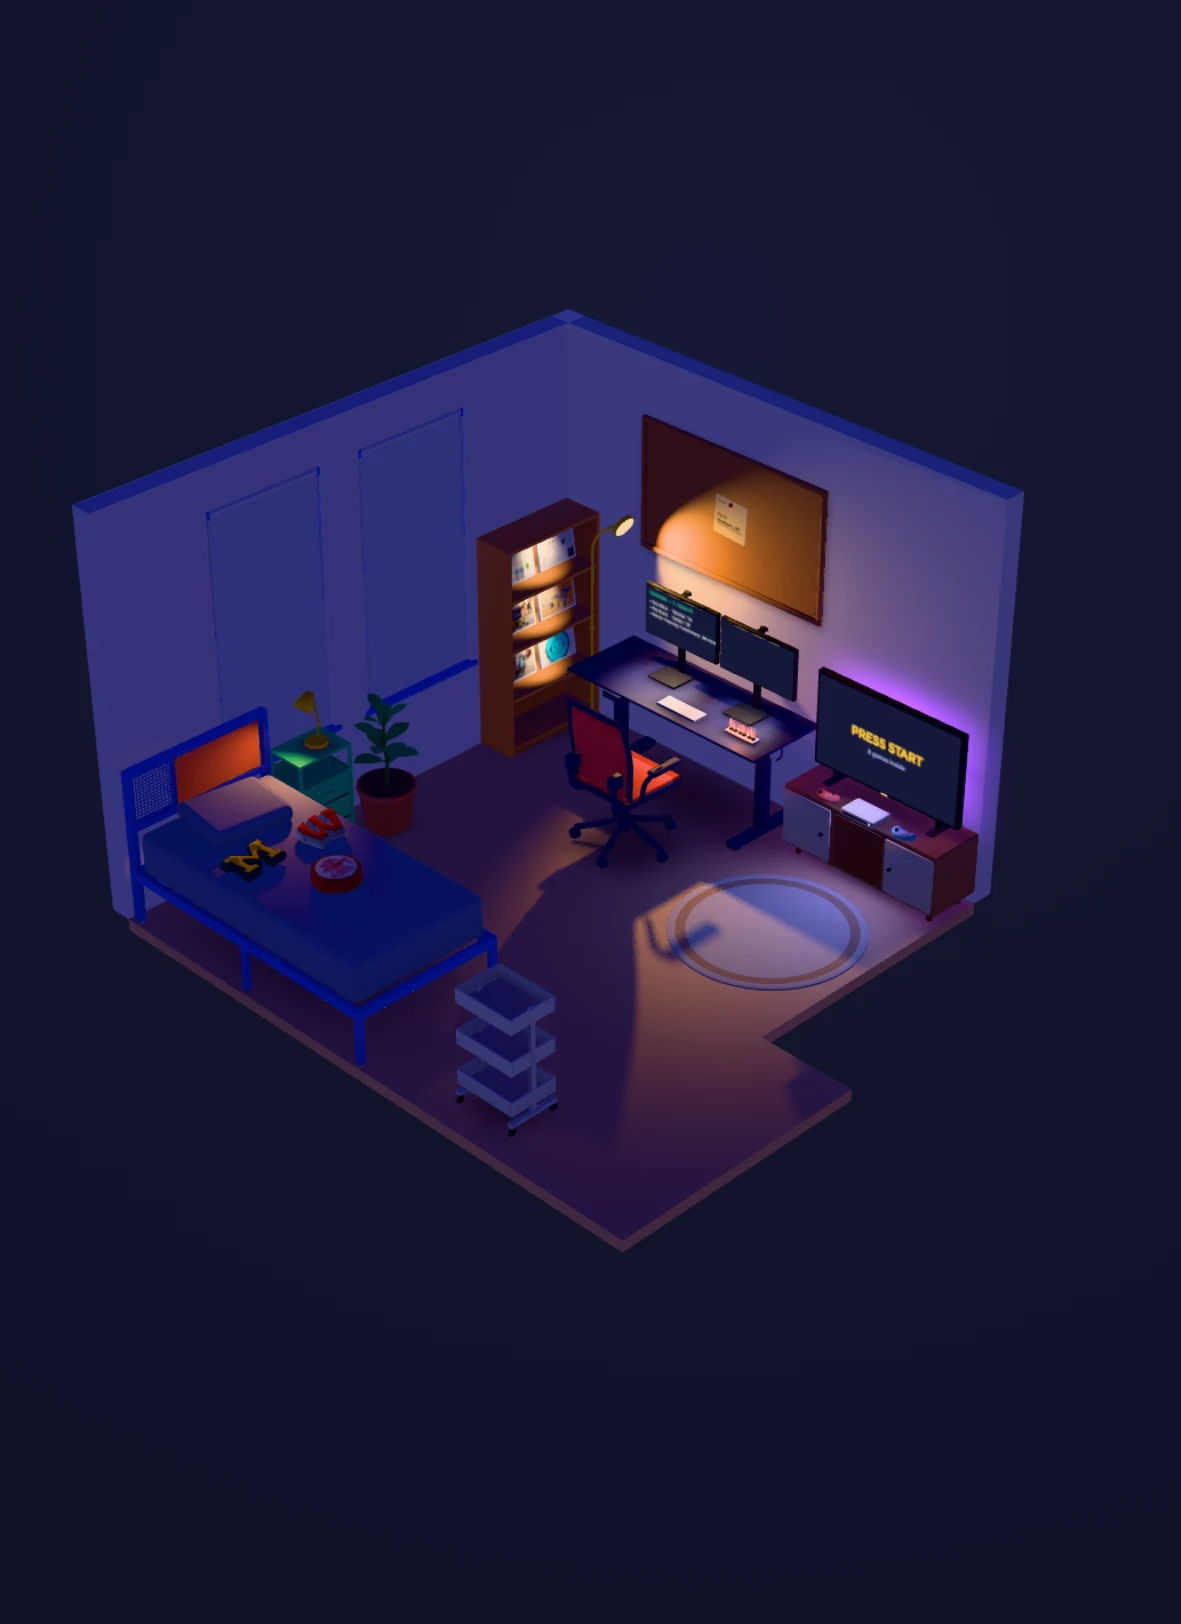
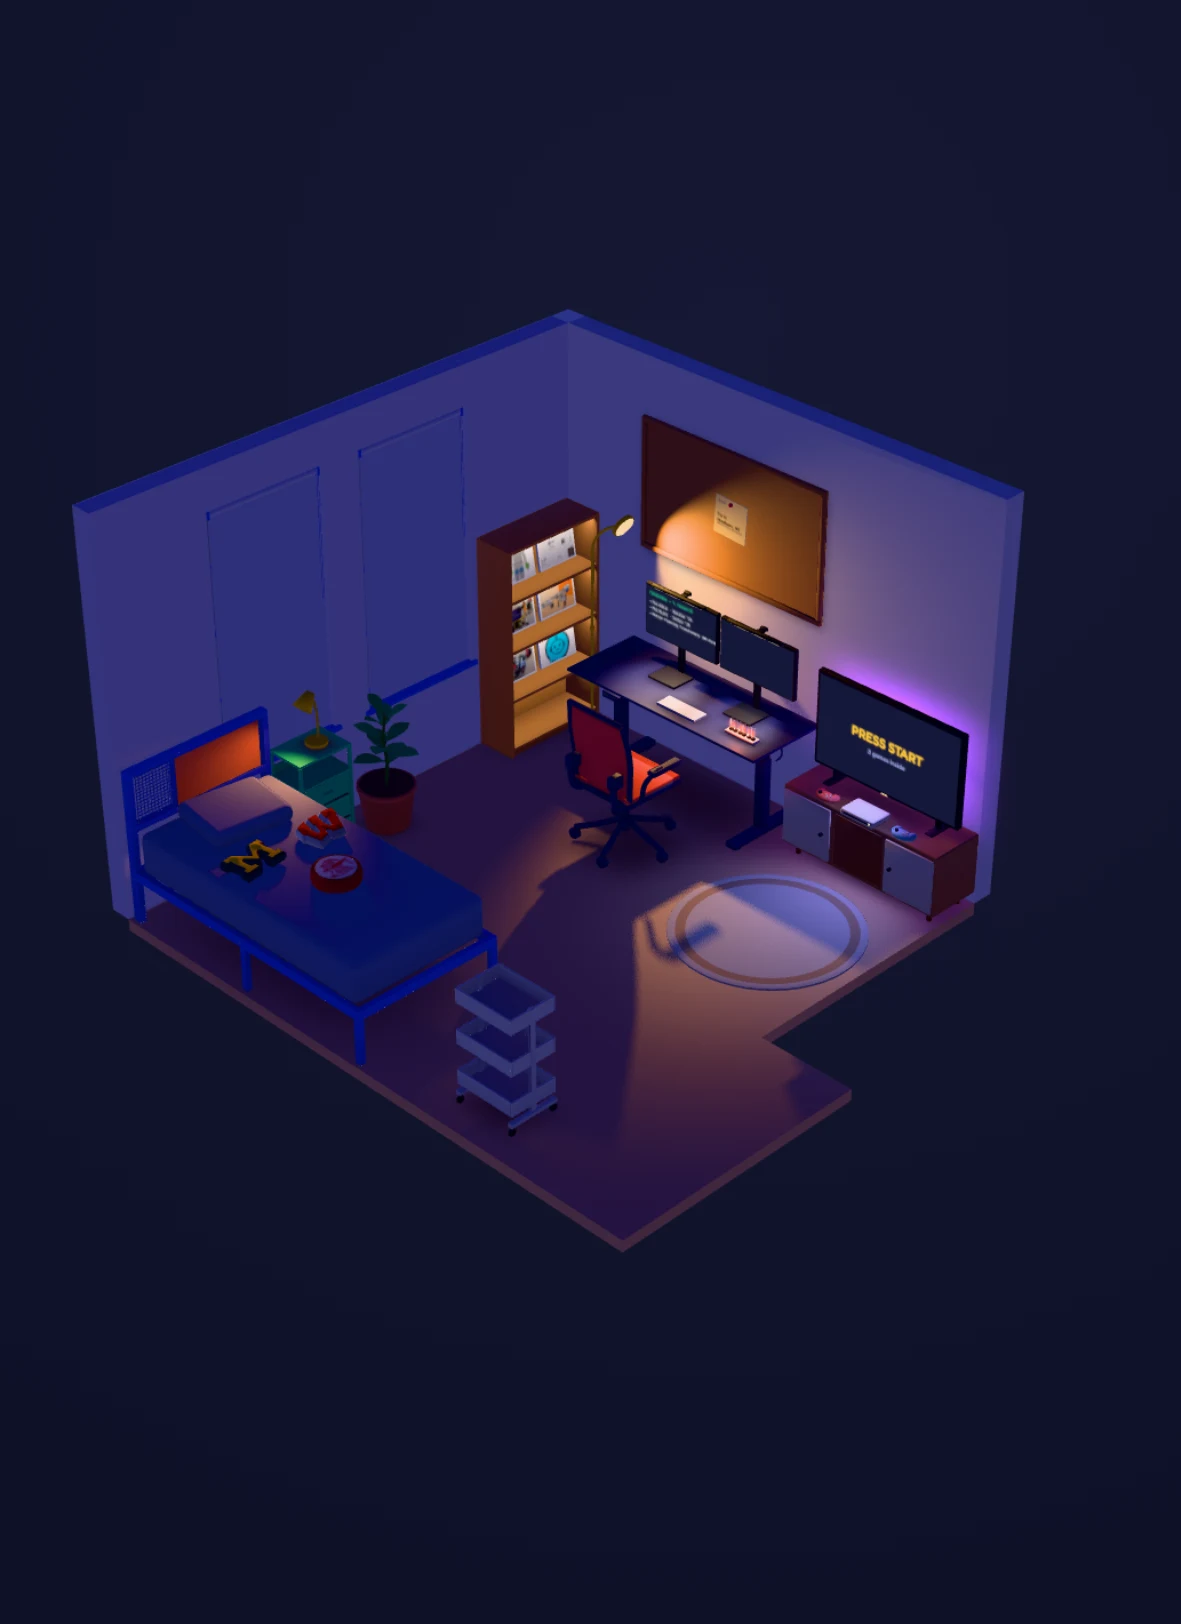
Shelf lights as line lights on every tier, instead of spots

Changed region(s): [[0.4268, 0.3079, 0.5182, 0.4618]]

diff --git a/src/scripts/room.ts b/src/scripts/room.ts
@@ -66,7 +66,7 @@ const ASSETS = '/room/assets/';
 const INK = '#14183a';
 const LEVELS = {
   light: { hemi: 0.65, env: 0.6, sun: 2.6, screen: 0, tv: 0, shelf: 0, emis: 0.12, night: 0 },
-  dark: { hemi: 0.5, env: 1, sun: 0.4, screen: 3.2, tv: 1.8, shelf: 1.4, emis: 1.2, night: 1 },
+  dark: { hemi: 0.5, env: 1, sun: 0.4, screen: 3.2, tv: 1.8, shelf: 1.8, emis: 1.2, night: 1 },
 };
 /** Lights you can click on and off in the full-screen room, and each one's level when on. They all
  * come on with the dark theme and go off with the light one; a click flips one until the next switch. */
@@ -250,6 +250,8 @@ export async function mountRoom(frame: HTMLElement, opts: RoomOptions) {
 
   // --- room shell: floor slab and walls with window/door openings, built from the measured outline
   const T = SHELL.thickness, H = SHELL.height;
+  // The shelf's display lights also reach the wall behind it (see stripLit).
+  const wallMats: MeshStandardMaterial[] = [];
   const floorMat = new MeshStandardMaterial({ color: new Color(SHELL.floor), roughness: 0.6 });
   const floor = new Mesh(
     new ExtrudeGeometry(new Shape(SHELL.outline.map(([x, y]) => new Vector2(x, y))), { depth: 0.08, bevelEnabled: false }),
@@ -293,6 +295,7 @@ export async function mountRoom(frame: HTMLElement, opts: RoomOptions) {
     }
     if (u < u1) pieces.push([u, u1, 0, H]);
     const mat = new MeshStandardMaterial({ color: new Color(w.side === 'W' ? SHELL.wallW : SHELL.wall), roughness: 0.9 });
+    wallMats.push(mat);
     const objs = pieces.map(([a, b, z0, z1]) => {
       const len = b - a, mid = (a + b) / 2, off = line - (alongX ? n.y : n.x) * (T / 2);
       const m = new Mesh(alongX ? new BoxGeometry(len, z1 - z0, T) : new BoxGeometry(T, z1 - z0, len), mat);
@@ -1088,20 +1091,99 @@ export async function mountRoom(frame: HTMLElement, opts: RoomOptions) {
       });
     return { id: el.dataset.item, pop: poppable(f, { p: new Vector3(0, 0.02, 0.07), r: 0.2, s: 0.1 }) };
   });
-  // Display lights: an LED strip under the front edge of the board above each tier with frames,
-  // shining down and back onto them. Like the monitor light bars they follow the theme (on at night).
+  // Display lights: an LED strip under the front edge of every board, lighting the tier below it.
+  // A strip is a line of light, so instead of a spot (a round pool) each one is a line light added in
+  // the shader of the shelf's own materials: even along its length, fading with distance, shining
+  // down and back, and only inside its own tier (the boards would block it). Three's RectAreaLight
+  // would do this too, but its lookup tables cost ~110 KB. Like the monitor light bars, the strips
+  // follow the theme (on at night).
   const shelfAsset = manifest.assets[PLACEMENTS.find((p) => p.id === SCREENS.shelf)!.asset];
   const clear = shelfAsset.tier_clear ?? 0.33, depth = shelfAsset.size[1];
+  const allTiers = (shelfAsset.tiers ?? []).slice().sort((a, b) => a - b);
   const shelfGlow = new MeshStandardMaterial({ color: new Color('#fff4e0'), emissive: new Color('#ffd9a0'), emissiveIntensity: 0 });
-  const shelfLs = tiers.map((tier) => {
-    const strip = new Mesh(new BoxGeometry(shelfW - 0.04, 0.006, 0.012), shelfGlow);
-    strip.position.set(0, tier + clear - 0.004, depth / 2 - 0.035);
+  const stripLight = { value: 0 };
+  const stripA: Vector3[] = [], stripB: Vector3[] = [], stripY: Vector2[] = [];
+  shelf.updateWorldMatrix(true, true);
+  for (const tier of allTiers) {
+    const y = tier + clear - 0.004, z = depth / 2 - 0.035, half = (shelfW - 0.04) / 2;
+    const strip = new Mesh(new BoxGeometry(half * 2, 0.006, 0.012), shelfGlow);
+    strip.position.set(0, y, z);
     strip.raycast = () => {};
-    const l = new SpotLight(0xffe2b8, 0, 0.6, 0.85, 1, 1.5);
-    l.position.copy(strip.position);
-    l.target.position.set(0, tier, -depth / 2);
-    shelf.add(strip, l, l.target);
-    return l;
+    shelf.add(strip);
+    stripA.push(shelf.localToWorld(new Vector3(-half, y, z)));
+    stripB.push(shelf.localToWorld(new Vector3(half, y, z)));
+    stripY.push(new Vector2(shelf.localToWorld(new Vector3(0, tier, 0)).y - 0.01, shelf.localToWorld(new Vector3(0, y, 0)).y + 0.01));
+  }
+  // The direction the strips shine: down and towards the back panel.
+  const stripDir = new Vector3(0, -1, -0.8).normalize().transformDirection(shelf.matrixWorld);
+  const N_STRIPS = stripA.length;
+  // How far past each end of a strip (as a fraction of its length) the side panels' inner faces are.
+  const stripEnd = ((shelfAsset.size[0] / 2 - 0.02 - (shelfW - 0.04) / 2) / (shelfW - 0.04)) + 0.005;
+  const stripLit = (m: MeshStandardMaterial) => {
+    const prev = m.onBeforeCompile, prevKey = m.customProgramCacheKey();
+    m.onBeforeCompile = (sh, r) => {
+      prev.call(m, sh, r);
+      Object.assign(sh.uniforms, {
+        uStripLight: stripLight,
+        uStripA: { value: stripA },
+        uStripB: { value: stripB },
+        uStripY: { value: stripY },
+        uStripDir: { value: stripDir },
+        uStripEnd: { value: stripEnd },
+      });
+      sh.vertexShader = 'varying vec3 vStripW;\n' + sh.vertexShader.replace('#include <begin_vertex>', '#include <begin_vertex>\n  vStripW = (modelMatrix * vec4(transformed, 1.0)).xyz;');
+      sh.fragmentShader =
+        `varying vec3 vStripW;
+uniform float uStripLight;
+uniform vec3 uStripA[${N_STRIPS}];
+uniform vec3 uStripB[${N_STRIPS}];
+uniform vec2 uStripY[${N_STRIPS}];
+uniform vec3 uStripDir;
+uniform float uStripEnd;
+` +
+        sh.fragmentShader.replace(
+          '#include <lights_fragment_end>',
+          `#include <lights_fragment_end>
+  if (uStripLight > 0.0) {
+    vec3 nW = inverseTransformDirection(normal, viewMatrix);
+    float sum = 0.0;
+    for (int i = 0; i < ${N_STRIPS}; i++) {
+      if (vStripW.y < uStripY[i].x || vStripW.y > uStripY[i].y) continue;
+      vec3 ab = uStripB[i] - uStripA[i];
+      // Along the strip: nothing past the side panels' inner faces, so the walls beside the shelf stay dark.
+      float t = dot(vStripW - uStripA[i], ab) / dot(ab, ab);
+      if (t < -uStripEnd || t > 1.0 + uStripEnd) continue;
+      vec3 q = uStripA[i] + ab * clamp(t, 0.0, 1.0);
+      vec3 d = q - vStripW;
+      float r = length(d);
+      vec3 l = d / max(r, 1e-4);
+      sum += max(dot(nW, l), 0.0) * max(dot(-l, uStripDir), 0.0) / (1.0 + r * r / 0.05);
+    }
+    reflectedLight.directDiffuse += vec3(1.0, 0.86, 0.66) * diffuseColor.rgb * sum * uStripLight;
+  }`,
+        );
+    };
+    m.customProgramCacheKey = () => `${prevKey}|strip`;
+    return m;
+  };
+  // The shelf's meshes (and the frames on it) get their own copies of the patched materials.
+  const stripMats = new Map<MeshStandardMaterial, MeshStandardMaterial>();
+  const withStrip = (m: MeshStandardMaterial) => {
+    if (!stripMats.has(m)) {
+      const c = m.clone();
+      if (m.customProgramCacheKey() === 'baked-ao') withAO(c);
+      stripMats.set(m, stripLit(c));
+    }
+    return stripMats.get(m)!;
+  };
+  wallMats.forEach(stripLit);
+  shelf.traverse((o) => {
+    if (!(o instanceof Mesh) || o.material === shelfGlow) return;
+    o.material = Array.isArray(o.material)
+      ? o.material.map((m) => (m instanceof MeshStandardMaterial ? withStrip(m) : m))
+      : o.material instanceof MeshStandardMaterial
+        ? withStrip(o.material)
+        : o.material;
   });
 
   // Pinboard cards: a sticky note (or a photo) per playground item, pinned on the `board` plane.
@@ -1921,7 +2003,7 @@ export async function mountRoom(frame: HTMLElement, opts: RoomOptions) {
     sun.intensity = cur.sun;
     lampL.intensity = cur.lamp;
     screenLs.forEach((l) => (l.intensity = cur.screen));
-    shelfLs.forEach((l) => (l.intensity = cur.shelf));
+    stripLight.value = cur.shelf;
     shelfGlow.emissiveIntensity = cur.shelf * 1.2;
     bedL.intensity = cur.bed;
     tvL.intensity = cur.tv;

diff --git a/redesign/PLAN.md b/redesign/PLAN.md
@@ -57,7 +57,7 @@ Clips: any resolution; trim to ≤ ~1 MB muted mp4 under `public/assets/video/`.
 ### Performance budget
 - Text first: static HTML, LCP never waits for 3D. three.js loads on idle on desktop, on demand on mobile.
 - No post-processing. Physics only for the toys on the bed (the pillow and the UMich M / UW W / SJTU gear plushes: pick up, throw, knock into each other): cannon-es in its own chunk (~24 KB gzip), loaded when the full-screen room first opens, bodies sleep when settled. Real-time light (hemisphere + one shadowed sun/moon + night lamps); per-asset baked AO only. Render on demand; stop when off-screen or the tab is hidden.
-- Light only comes in through the windows: walls (also the ones hidden in the dollhouse view), a shadow-only ceiling and closed blinds cast shadows, so sun patches show only with a blind up. The floor lamp, bedside lamp and the two monitor light bars cast shadows too; the light bars follow the theme, no switch (2026-10-22). The shelf has a warm LED strip under each tier with project frames (no shadows); on at night like the light bars.
+- Light only comes in through the windows: walls (also the ones hidden in the dollhouse view), a shadow-only ceiling and closed blinds cast shadows, so sun patches show only with a blind up. The floor lamp, bedside lamp and the two monitor light bars cast shadows too; the light bars follow the theme, no switch (2026-10-22). The shelf has a warm LED strip under every board: a line light written into the shelf's and walls' shaders (RectAreaLight would cost ~110 KB), so it lights each tier as an even band; on at night like the light bars.
 - All 3D assets ≤ ~3 MB (now 1.39 MB, meshopt), room JS ≤ 200 KB gzip. Poster image fallback without WebGL or with reduced motion.
 - Lighthouse home page: Performance ≥ 90 desktop / ≥ 80 mobile, Accessibility ≥ 95.
 
